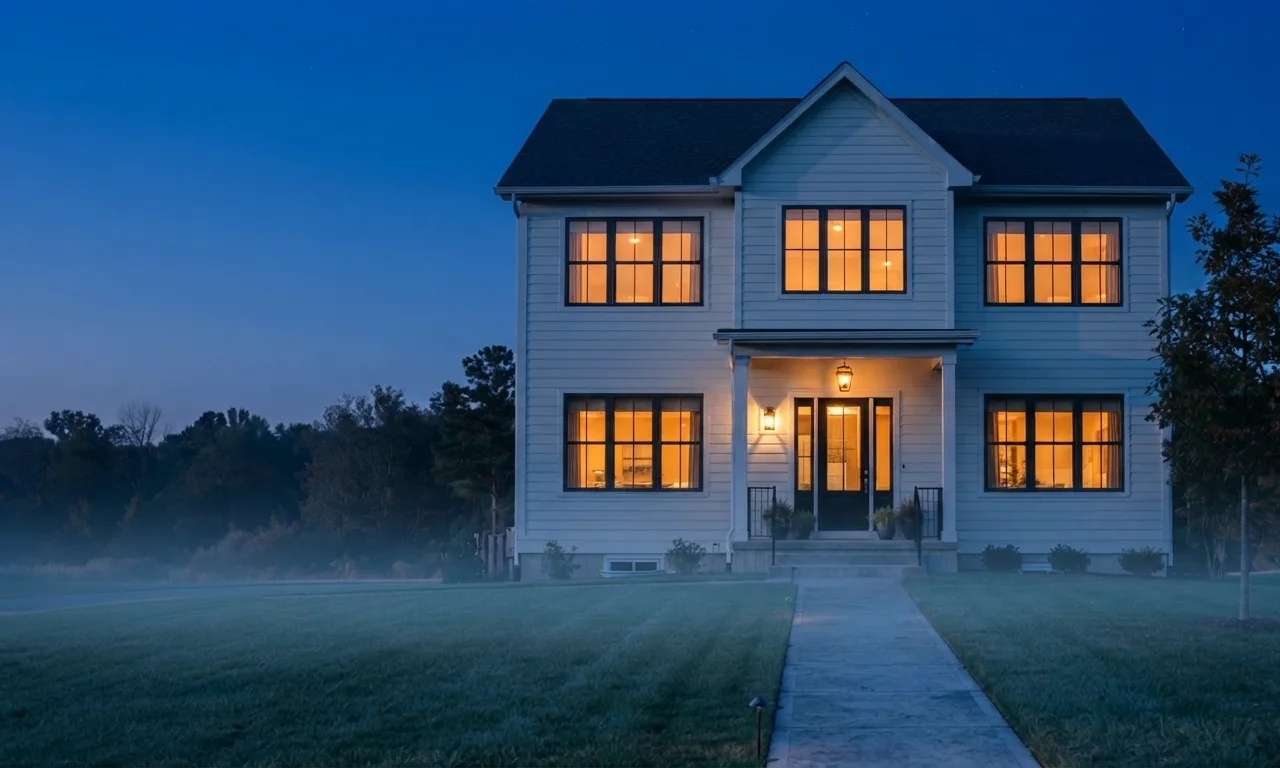
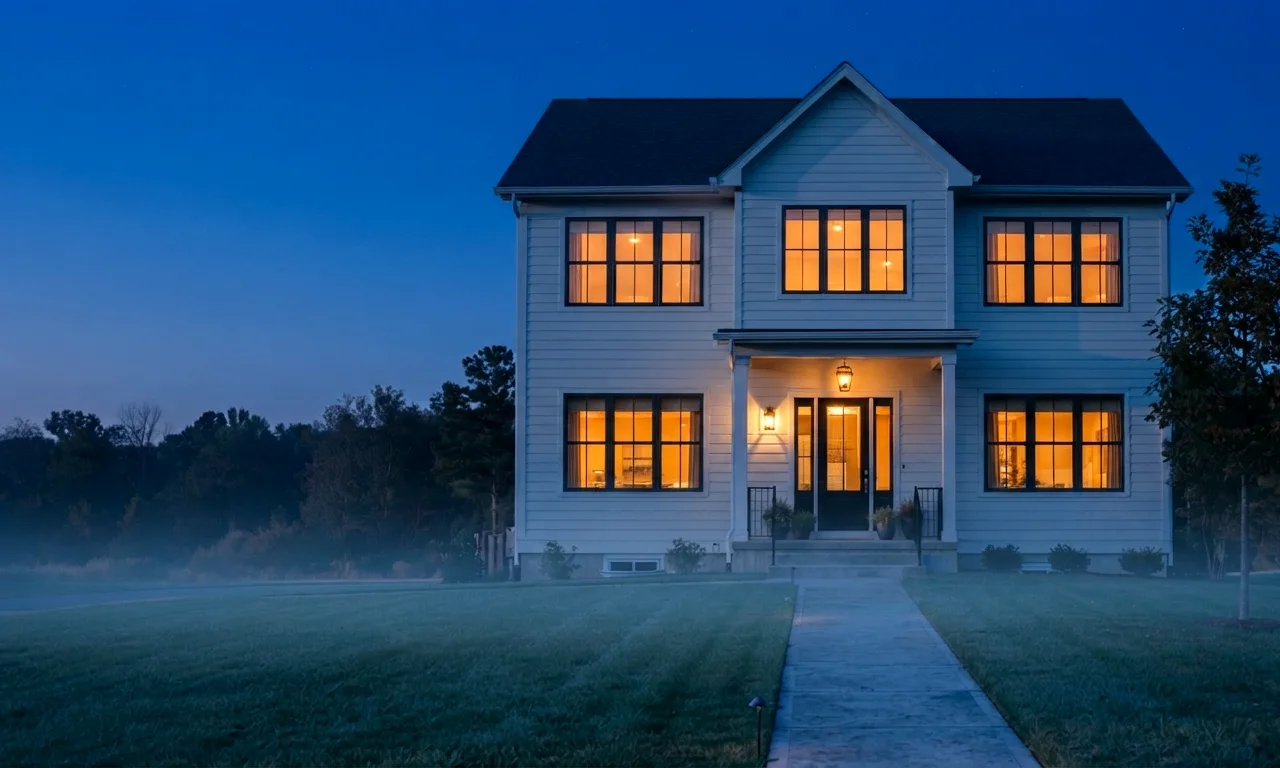
Smoothness pass: compositor-only hero, baked grade, heavier glide
- Stage-2 reveal rebuilt as dual-transform wipe (no clip-path repaints)
- Color grade baked into the webp files via sharp; live CSS filter removed
- translateZ/backface hints on camera and stages; force3D on the timeline
- Lenis tuned: 1.22s duration, expo easing, 0.95 wheel multiplier
- Longer pin travel (5200/3800) and heavier scrub (1.2/0.7)

Changed region(s): [[0.0, 0.1562, 0.4062, 0.3125], [0.5, 0.5625, 0.5312, 0.625], [0.4375, 0.5312, 0.5, 0.5625]]

diff --git a/js/hero.js b/js/hero.js
@@ -75,6 +75,7 @@
       var scan = q("[data-scanline]");
       var stage1 = q('[data-stage="1"]');
       var stage2 = q('[data-stage="2"]');
+      var stage2Reveal = q("[data-stage2-reveal]");
       var stage3 = q('[data-stage="3"]');
       var stage4 = q('[data-stage="4"]');
       var flowGroup = document.getElementById("ov-flow");
@@ -100,7 +101,8 @@
       /* ---------------- initial state ---------------------- */
       gsap.set(camera, F.s1a);
       gsap.set(stage1, { autoAlpha: 1 });
-      gsap.set(stage2, { autoAlpha: 1, clipPath: "inset(0% 100% 0% 0%)" });
+      gsap.set(stage2Reveal, { xPercent: 100 });
+      gsap.set(stage2, { autoAlpha: 1, xPercent: -100 });
       gsap.set(stage3, { autoAlpha: 0 });
       gsap.set(stage4, { autoAlpha: 0 });
       gsap.set(scan, { autoAlpha: 0, xPercent: 0 });
@@ -144,13 +146,13 @@
 
       /* ---------------- master timeline -------------------- */
       var tl = gsap.timeline({
-        defaults: { ease: "none" },
+        defaults: { ease: "none", force3D: true },
         scrollTrigger: {
           trigger: "[data-hero-pin]",
           start: "top top",
-          end: "+=" + (isMobile ? 3400 : 4400),
+          end: "+=" + (isMobile ? 3800 : 5200),
           pin: true,
-          scrub: isMobile ? 0.6 : 1,
+          scrub: isMobile ? 0.7 : 1.2,
           anticipatePin: 1,
           onToggle: function (self) {
             hero.classList.toggle("is-scene-active", self.isActive);
@@ -189,7 +191,8 @@
       tl.to(scan, { autoAlpha: 0.95, duration: 1.2 }, 18)
         .to(scan, { xPercent: 940, duration: 8, ease: "power1.inOut" }, 18)
         .to(scan, { autoAlpha: 0, duration: 1.2 }, 25.4)
-        .to(stage2, { clipPath: "inset(0% 0% 0% 0%)", duration: 8, ease: "power1.inOut" }, 18)
+        .to(stage2Reveal, { xPercent: 0, duration: 8, ease: "power1.inOut" }, 18)
+        .to(stage2, { xPercent: 0, duration: 8, ease: "power1.inOut" }, 18)
         .to("#ov-grid-rect", { autoAlpha: 0.4, duration: 3 }, 18)
         .to("#ov-grid-rect", { autoAlpha: 0, duration: 3.5 }, 25)
         .to("#ov-problem", { autoAlpha: 0, duration: 3 }, 18.5)

diff --git a/index.html b/index.html
@@ -189,7 +189,9 @@
         <div class="hero__frame" role="img" aria-label="A home is restored in four stages: the exterior with a hidden leak, a cutaway view revealing the plumbing system, a precision copper repair inside the wall, and finally warm light with water flowing to every fixture.">
           <div class="hero__camera" data-hero-camera>
             <img class="hero__stage" data-stage="1" src="assets/photo/hero-1-exterior.webp" alt="" width="1280" height="768" fetchpriority="high">
-            <img class="hero__stage" data-stage="2" src="assets/photo/hero-2-cutaway.webp" alt="" width="1280" height="768">
+            <div class="hero__reveal" data-stage2-reveal>
+              <img class="hero__stage" data-stage="2" src="assets/photo/hero-2-cutaway.webp" alt="" width="1280" height="768">
+            </div>
             <img class="hero__stage" data-stage="4" src="assets/photo/hero-4-restored.webp" alt="" width="1280" height="768">
             <svg class="hero__overlay" viewBox="0 0 1280 768" preserveAspectRatio="xMidYMid slice" aria-hidden="true">
               <defs>

diff --git a/css/hero.css b/css/hero.css
@@ -37,14 +37,29 @@
     0 18px 44px -24px rgba(12, 24, 33, 0.35);
   isolation: isolate;
 }
-.hero__camera { position: absolute; inset: 0; will-change: transform; }
+.hero__camera {
+  position: absolute;
+  inset: 0;
+  will-change: transform;
+  transform: translateZ(0);
+  backface-visibility: hidden;
+}
+.hero__reveal {
+  position: absolute;
+  inset: 0;
+  overflow: hidden;
+  will-change: transform;
+  transform: translateZ(0);
+}
 .hero__stage {
   position: absolute;
   inset: 0;
   width: 100%;
   height: 100%;
   object-fit: cover;
-  filter: saturate(1.06) contrast(1.04);
+  will-change: transform, opacity;
+  transform: translateZ(0);
+  backface-visibility: hidden;
 }
 .hero__stage[data-stage="2"],
 .hero__stage[data-stage="4"] { opacity: 0; }

diff --git a/js/main.js b/js/main.js
@@ -125,7 +125,12 @@
   function startLenis() {
     if (lenis || reduced() || !window.Lenis || !window.gsap || !window.ScrollTrigger) return;
     docEl.classList.add("has-lenis");
-    lenis = new Lenis({ duration: 1.05, smoothWheel: true });
+    lenis = new Lenis({
+      duration: 1.22,
+      smoothWheel: true,
+      wheelMultiplier: 0.95,
+      easing: function (t) { return Math.min(1, 1.001 - Math.pow(2, -10 * t)); }
+    });
     lenis.on("scroll", ScrollTrigger.update);
     gsap.ticker.add(function (t) { lenis.raf(t * 1000); });
     gsap.ticker.lagSmoothing(0);

diff --git a/README.md b/README.md
@@ -129,8 +129,9 @@ assets/photo/       hero stage photography + dusk CTA (webp; src/ originals)
 - Semantic landmarks, one `h1`, labeled forms, keyboard-operable menu,
   accordion and carousel, visible focus states, skip link.
 - `prefers-reduced-motion` honored everywhere (static hero, no scroll FX).
-- ~350 KB total page weight (fonts + JS + art included), no external
-  requests, no layout shift: images carry explicit dimensions.
+- ~900 KB total page weight (fonts, JS, art and all four hero photographs
+  included), no external requests, no layout shift: images carry explicit
+  dimensions. Hero transitions are compositor-only (transform/opacity).
 
 ## License
 
